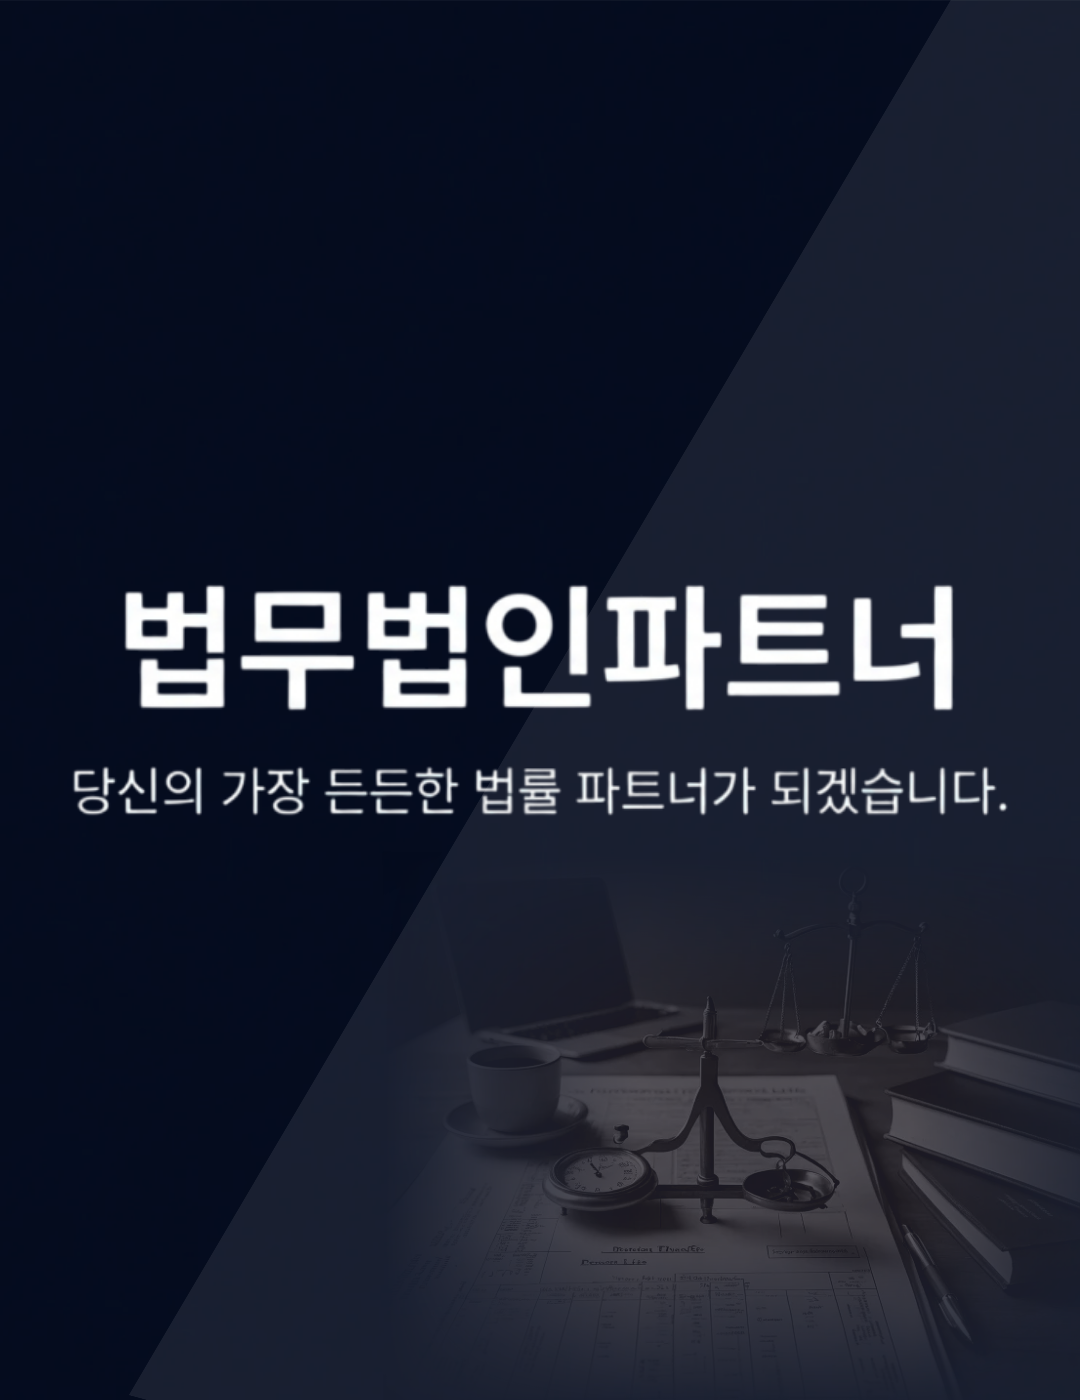
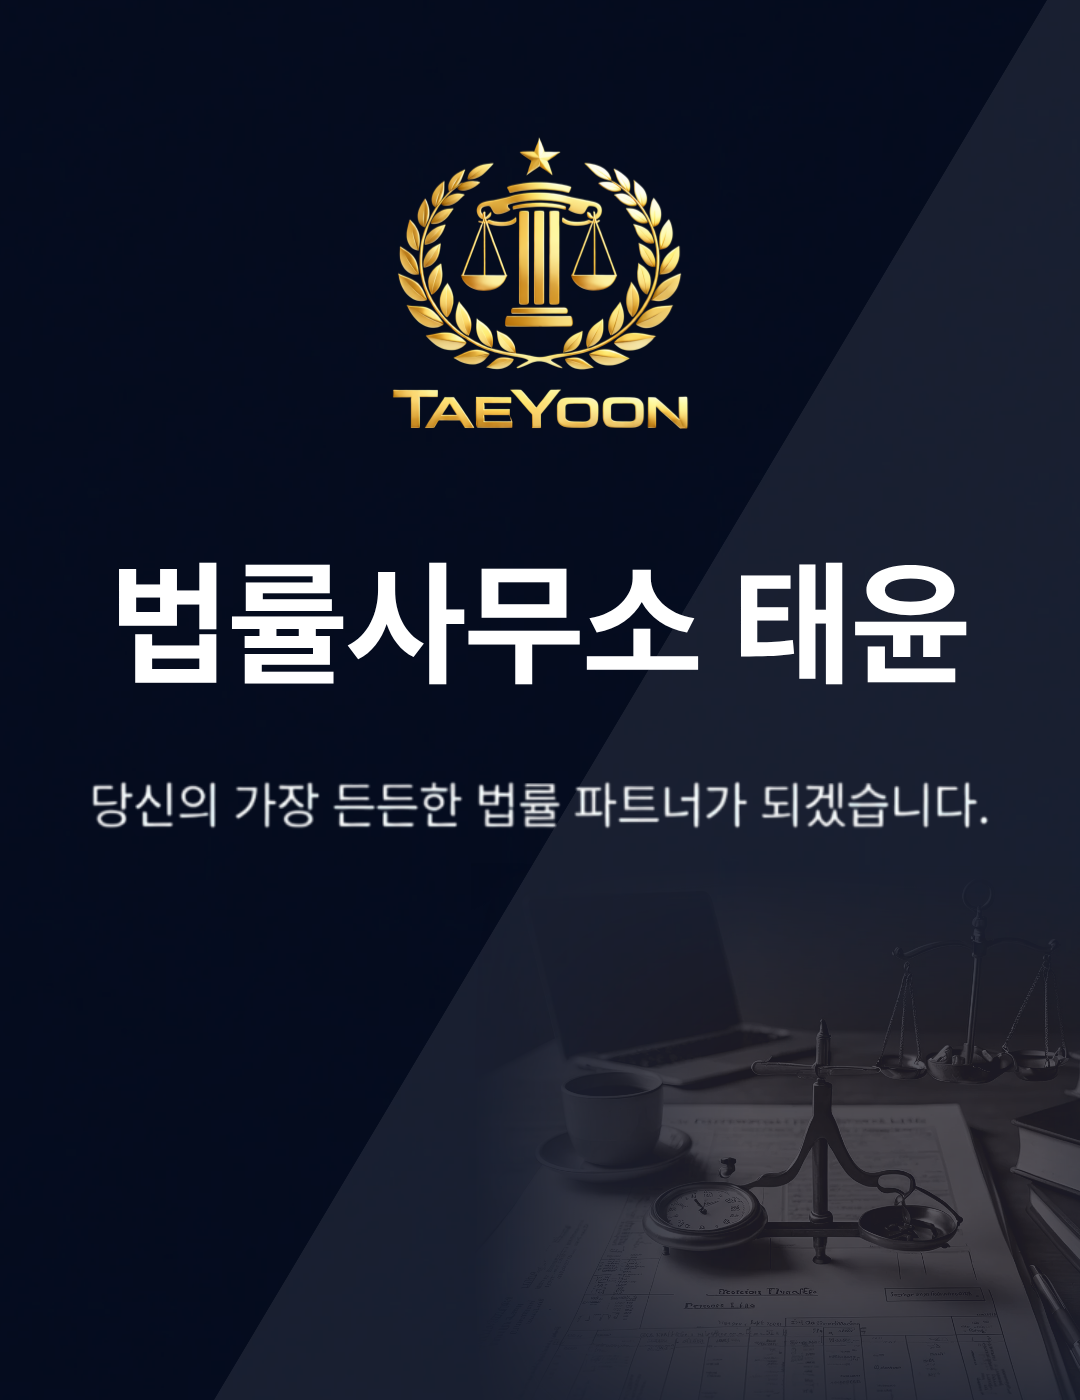
s

diff --git a/index.html b/index.html
@@ -5,11 +5,11 @@
     <meta name="viewport" content="width=device-width, initial-scale=1.0">
     
     <!-- Primary Meta Tags -->
-    <title>법무법인 파트너 | 채무조정, 개인회생, 신용회복 전문 법률상담</title>
-    <meta name="title" content="법무법인 파트너 | 채무조정, 개인회생, 신용회복 전문 법률상담">
-    <meta name="description" content="채무조정·개인회생·신용회복 전문 법무법인 파트너. 서울 서초구, 365일 24시간 상담 가능">
-    <meta name="keywords" content="법무법인파트너, 법무법인 파트너, 채무조정, 개인회생, 신용회복, 면책신청, 채무상담, 법률상담, 변호사, 서초구, 서울, 압류해제, 연체상담, 채권추심">
-    <meta name="author" content="법무법인 파트너">
+    <title>법무법인 태윤 | 채무조정, 개인회생, 신용회복 전문 법률상담</title>
+    <meta name="title" content="법무법인 태윤 | 채무조정, 개인회생, 신용회복 전문 법률상담">
+    <meta name="description" content="채무조정·개인회생·신용회복 전문 법무법인 태윤. 서울 서초구, 365일 24시간 상담 가능">
+    <meta name="keywords" content="법무법인태윤, 법무법인 태윤, 채무조정, 개인회생, 신용회복, 면책신청, 채무상담, 법률상담, 변호사, 서초구, 서울, 압류해제, 연체상담, 채권추심">
+    <meta name="author" content="법무법인 태윤">
     <meta name="robots" content="index, follow">
     <meta name="language" content="Korean">
     <meta name="revisit-after" content="7 days">
@@ -26,22 +26,22 @@
     <!-- Open Graph / Facebook -->
     <meta property="og:type" content="website">
     <meta property="og:url" content="https://lawmariel2.co.kr/">
-    <meta property="og:title" content="법무법인 파트너 | 채무조정, 개인회생, 신용회복 전문 법률상담">
-    <meta property="og:description" content="채무조정·개인회생·신용회복 전문 법무법인 파트너. 서울 서초구, 365일 24시간 상담 가능">
-    <meta property="og:image" content="https://lawmariel2.co.kr/partner-logo.png">
-    <meta property="og:site_name" content="법무법인 파트너">
+    <meta property="og:title" content="법무법인 태윤 | 채무조정, 개인회생, 신용회복 전문 법률상담">
+    <meta property="og:description" content="채무조정·개인회생·신용회복 전문 법무법인 태윤. 서울 서초구, 365일 24시간 상담 가능">
+    <meta property="og:image" content="https://lawmariel2.co.kr/logo.png">
+    <meta property="og:site_name" content="법무법인 태윤">
     <meta property="og:locale" content="ko_KR">
     
     <!-- Twitter -->
     <meta property="twitter:card" content="summary_large_image">
     <meta property="twitter:url" content="https://lawmariel2.co.kr/">
-    <meta property="twitter:title" content="법무법인 파트너 | 채무조정, 개인회생, 신용회복 전문 법률상담">
-    <meta property="twitter:description" content="채무조정·개인회생·신용회복 전문 법무법인 파트너. 서울 서초구, 365일 24시간 상담 가능">
-    <meta property="twitter:image" content="https://lawmariel2.co.kr/partner-logo.png">
+    <meta property="twitter:title" content="법무법인 태윤 | 채무조정, 개인회생, 신용회복 전문 법률상담">
+    <meta property="twitter:description" content="채무조정·개인회생·신용회복 전문 법무법인 태윤. 서울 서초구, 365일 24시간 상담 가능">
+    <meta property="twitter:image" content="https://lawmariel2.co.kr/logo.png">
     
     <!-- Favicon -->
-    <link rel="icon" type="image/png" href="partner-logo.png">
-    <link rel="apple-touch-icon" href="partner-logo.png">
+    <link rel="icon" type="image/png" href="logo.png">
+    <link rel="apple-touch-icon" href="logo.png">
     
     <!-- Preconnect for Performance -->
     <link rel="preconnect" href="https://cdn.jsdelivr.net">
@@ -55,11 +55,11 @@
     {
       "@context": "https://schema.org",
       "@type": "LegalService",
-      "name": "법무법인 파트너",
+      "name": "법무법인 태윤",
       "description": "채무조정, 개인회생, 신용회복, 면책신청 등 채무 관련 법률 서비스를 제공하는 법무법인",
       "url": "https://lawmariel2.co.kr/",
-      "logo": "https://lawmariel2.co.kr/partner-logo.png",
-      "image": "https://lawmariel2.co.kr/partner-logo.png",
+      "logo": "https://lawmariel2.co.kr/logo.png",
+      "image": "https://lawmariel2.co.kr/logo.png",
       "email": "bbong1019@naver.com",
       "address": {
         "@type": "PostalAddress",
@@ -117,8 +117,8 @@
     {
       "@context": "https://schema.org",
       "@type": "LocalBusiness",
-      "name": "법무법인 파트너",
-      "image": "https://lawmariel2.co.kr/partner-logo.png",
+      "name": "법무법인 태윤",
+      "image": "https://lawmariel2.co.kr/logo.png",
       "email": "bbong1019@naver.com",
       "address": {
         "@type": "PostalAddress",
@@ -1356,13 +1356,34 @@
             }
         }
     </style>
+
+    <!-- Danggeun Market Code -->
+    <script src="https://karrot-pixel.business.daangn.com/karrot-pixel.js"></script>
+    <script>
+    (function() {
+        function runViewPage() {
+            if (window.karrotPixel && window.karrotPixel.init) {
+                window.karrotPixel.init('1772604990583815001');
+                window.karrotPixel.track('ViewPage');
+            } else {
+                setTimeout(runViewPage, 50);
+            }
+        }
+        if (document.readyState === 'loading') {
+            document.addEventListener('DOMContentLoaded', runViewPage);
+        } else {
+            runViewPage();
+        }
+    })();
+    </script>
+    <!-- End Danggeun Market Code -->
 </head>
 <body>
     <!-- 헤더 -->
     <header>
         <div class="header-container">
-            <a href="#home" class="logo" aria-label="법무법인 파트너 홈으로 이동">
-                <img src="partner-logo.png" alt="법무법인 파트너 로고 - 채무조정, 개인회생, 신용회복 전문 법률서비스">
+            <a href="#home" class="logo" aria-label="법무법인 태윤 홈으로 이동">
+                <img src="logo.png" alt="법무법인 태윤 로고 - 채무조정, 개인회생, 신용회복 전문 법률서비스">
             </a>
             <button class="menu-btn" onclick="toggleSideMenu()">
                 MENU <span>☰</span>
@@ -1390,53 +1411,53 @@
             <a href="#contact" onclick="toggleSideMenu()" aria-label="문의하기로 이동">문의하기</a>
         </nav>
         <div class="side-menu-logo">
-            <img src="partner-logo.png" alt="법무법인 파트너 로고 - 채무조정 개인회생 신용회복 전문 법률서비스">
+            <img src="logo.png" alt="법무법인 태윤 로고 - 채무조정 개인회생 신용회복 전문 법률서비스">
         </div>
     </div>
 
     <!-- 메인 섹션들 -->
     <main class="hero-section" id="home">
-        <h1 style="position: absolute; width: 1px; height: 1px; margin: -1px; padding: 0; overflow: hidden; clip: rect(0, 0, 0, 0); border: 0;">법무법인파트너 - 채무조정, 개인회생, 신용회복 전문 법률서비스</h1>
-        <img src="images/pc/h-1.png" alt="법무법인 파트너 메인 배너 - 채무조정 개인회생 신용회복 전문 법률서비스" class="section-image pc">
-        <img src="images/mob/h-1-m.png" alt="법무법인 파트너 메인 배너 - 채무조정 개인회생 신용회복 전문 법률서비스" class="section-image mobile">
+        <h1 style="position: absolute; width: 1px; height: 1px; margin: -1px; padding: 0; overflow: hidden; clip: rect(0, 0, 0, 0); border: 0;">법무법인태윤 - 채무조정, 개인회생, 신용회복 전문 법률서비스</h1>
+        <img src="images/pc/h-1.png" alt="법무법인 태윤 메인 배너 - 채무조정 개인회생 신용회복 전문 법률서비스" class="section-image pc">
+        <img src="images/mob/h-1-m.png" alt="법무법인 태윤 메인 배너 - 채무조정 개인회생 신용회복 전문 법률서비스" class="section-image mobile">
         <section id="services"></section>
-        <img src="images/pc/h-2.png" alt="법무법인 파트너 서비스 소개 - 채무조정 개인회생 신용회복 법률상담" class="section-image pc">
-        <img src="images/mob/h-2-m.png" alt="법무법인 파트너 서비스 소개 - 채무조정 개인회생 신용회복 법률상담" class="section-image mobile">
-        <img src="images/pc/h-3.png" alt="법무법인 파트너 전문 변호사 상담 - 채무 문제 해결 법률서비스" class="section-image pc">
-        <img src="images/mob/h-3-m.png" alt="법무법인 파트너 전문 변호사 상담 - 채무 문제 해결 법률서비스" class="section-image mobile">
-        <img src="images/pc/h-4.png" alt="법무법인 파트너 상담 프로세스 - 365일 24시간 상담 가능" class="section-image pc">
-        <img src="images/mob/h-4-m.png" alt="법무법인 파트너 상담 프로세스 - 365일 24시간 상담 가능" class="section-image mobile">
-        <img src="images/pc/h-5.png" alt="법무법인 파트너 성공 사례 - 채무조정 개인회생 성공 후기" class="section-image pc">
-        <img src="images/mob/h-5-m.png" alt="법무법인 파트너 성공 사례 - 채무조정 개인회생 성공 후기" class="section-image mobile">
+        <img src="images/pc/h-2.png" alt="법무법인 태윤 서비스 소개 - 채무조정 개인회생 신용회복 법률상담" class="section-image pc">
+        <img src="images/mob/h-2-m.png" alt="법무법인 태윤 서비스 소개 - 채무조정 개인회생 신용회복 법률상담" class="section-image mobile">
+        <img src="images/pc/h-3.png" alt="법무법인 태윤 전문 변호사 상담 - 채무 문제 해결 법률서비스" class="section-image pc">
+        <img src="images/mob/h-3-m.png" alt="법무법인 태윤 전문 변호사 상담 - 채무 문제 해결 법률서비스" class="section-image mobile">
+        <img src="images/pc/h-4.png" alt="법무법인 태윤 상담 프로세스 - 365일 24시간 상담 가능" class="section-image pc">
+        <img src="images/mob/h-4-m.png" alt="법무법인 태윤 상담 프로세스 - 365일 24시간 상담 가능" class="section-image mobile">
+        <img src="images/pc/h-5.png" alt="법무법인 태윤 성공 사례 - 채무조정 개인회생 성공 후기" class="section-image pc">
+        <img src="images/mob/h-5-m.png" alt="법무법인 태윤 성공 사례 - 채무조정 개인회생 성공 후기" class="section-image mobile">
         <!-- 탕감률 섹션 슬라이더 -->
         <div class="discount-slider-section">
             <!-- 데스크탑 슬라이더 -->
             <div class="discount-slider-container">
                 <div class="discount-slider-track">
                     <div class="discount-slide">
-                        <img src="images/pc/h-6.png" alt="채무조정 탕감률 성공 사례 - 법무법인 파트너" class="discount-image pc">
-                        <img src="images/mob/h-6-m.png" alt="채무조정 탕감률 성공 사례 - 법무법인 파트너" class="discount-image mobile">
+                        <img src="images/pc/h-6.png" alt="채무조정 탕감률 성공 사례 - 법무법인 태윤" class="discount-image pc">
+                        <img src="images/mob/h-6-m.png" alt="채무조정 탕감률 성공 사례 - 법무법인 태윤" class="discount-image mobile">
                     </div>
                     <div class="discount-slide">
-                        <img src="images/pc/h-7.png" alt="개인회생 탕감률 성공 사례 - 법무법인 파트너" class="discount-image pc">
-                        <img src="images/mob/h-7-m.png" alt="개인회생 탕감률 성공 사례 - 법무법인 파트너" class="discount-image mobile">
+                        <img src="images/pc/h-7.png" alt="개인회생 탕감률 성공 사례 - 법무법인 태윤" class="discount-image pc">
+                        <img src="images/mob/h-7-m.png" alt="개인회생 탕감률 성공 사례 - 법무법인 태윤" class="discount-image mobile">
                     </div>
                     <div class="discount-slide">
-                        <img src="images/pc/h-8.png" alt="신용회복 탕감률 성공 사례 - 법무법인 파트너" class="discount-image pc">
-                        <img src="images/mob/h-8-m.png" alt="신용회복 탕감률 성공 사례 - 법무법인 파트너" class="discount-image mobile">
+                        <img src="images/pc/h-8.png" alt="신용회복 탕감률 성공 사례 - 법무법인 태윤" class="discount-image pc">
+                        <img src="images/mob/h-8-m.png" alt="신용회복 탕감률 성공 사례 - 법무법인 태윤" class="discount-image mobile">
                     </div>
                     <!-- 무한 반복을 위한 복제본 -->
                     <div class="discount-slide">
-                        <img src="images/pc/h-6.png" alt="채무조정 탕감률 성공 사례 - 법무법인 파트너" class="discount-image pc">
-                        <img src="images/mob/h-6-m.png" alt="채무조정 탕감률 성공 사례 - 법무법인 파트너" class="discount-image mobile">
+                        <img src="images/pc/h-6.png" alt="채무조정 탕감률 성공 사례 - 법무법인 태윤" class="discount-image pc">
+                        <img src="images/mob/h-6-m.png" alt="채무조정 탕감률 성공 사례 - 법무법인 태윤" class="discount-image mobile">
                     </div>
                     <div class="discount-slide">
-                        <img src="images/pc/h-7.png" alt="개인회생 탕감률 성공 사례 - 법무법인 파트너" class="discount-image pc">
-                        <img src="images/mob/h-7-m.png" alt="개인회생 탕감률 성공 사례 - 법무법인 파트너" class="discount-image mobile">
+                        <img src="images/pc/h-7.png" alt="개인회생 탕감률 성공 사례 - 법무법인 태윤" class="discount-image pc">
+                        <img src="images/mob/h-7-m.png" alt="개인회생 탕감률 성공 사례 - 법무법인 태윤" class="discount-image mobile">
                     </div>
                     <div class="discount-slide">
-                        <img src="images/pc/h-8.png" alt="신용회복 탕감률 성공 사례 - 법무법인 파트너" class="discount-image pc">
-                        <img src="images/mob/h-8-m.png" alt="신용회복 탕감률 성공 사례 - 법무법인 파트너" class="discount-image mobile">
+                        <img src="images/pc/h-8.png" alt="신용회복 탕감률 성공 사례 - 법무법인 태윤" class="discount-image pc">
+                        <img src="images/mob/h-8-m.png" alt="신용회복 탕감률 성공 사례 - 법무법인 태윤" class="discount-image mobile">
                     </div>
                 </div>
             </div>
@@ -1445,25 +1466,25 @@
                 <div class="discount-card-container">
                     <div class="discount-card-wrapper" id="discountCardWrapper">
                         <div class="discount-card">
-                            <img src="images/mob/h-6-m.png" alt="채무조정 탕감률 성공 사례 - 법무법인 파트너" class="discount-card-image">
+                            <img src="images/mob/h-6-m.png" alt="채무조정 탕감률 성공 사례 - 법무법인 태윤" class="discount-card-image">
                         </div>
                         <div class="discount-card">
-                            <img src="images/mob/h-7-m.png" alt="개인회생 탕감률 성공 사례 - 법무법인 파트너" class="discount-card-image">
+                            <img src="images/mob/h-7-m.png" alt="개인회생 탕감률 성공 사례 - 법무법인 태윤" class="discount-card-image">
                         </div>
                         <div class="discount-card">
-                            <img src="images/mob/h-8-m.png" alt="신용회복 탕감률 성공 사례 - 법무법인 파트너" class="discount-card-image">
+                            <img src="images/mob/h-8-m.png" alt="신용회복 탕감률 성공 사례 - 법무법인 태윤" class="discount-card-image">
                         </div>
                     </div>
                 </div>
             </div>
         </div>
-        <img src="images/pc/h-9.png" alt="법무법인 파트너 법률서비스 안내 - 면책신청 압류해제 연체상담" class="section-image pc">
-        <img src="images/mob/h-9-m.png" alt="법무법인 파트너 법률서비스 안내 - 면책신청 압류해제 연체상담" class="section-image mobile">
-        <img src="images/pc/h-10.png" alt="법무법인 파트너 상담 신청 방법 - 온라인 상담 24시간 접수" class="section-image pc">
-        <img src="images/mob/h-10-m.png" alt="법무법인 파트너 상담 신청 방법 - 온라인 상담 24시간 접수" class="section-image mobile">
+        <img src="images/pc/h-9.png" alt="법무법인 태윤 법률서비스 안내 - 면책신청 압류해제 연체상담" class="section-image pc">
+        <img src="images/mob/h-9-m.png" alt="법무법인 태윤 법률서비스 안내 - 면책신청 압류해제 연체상담" class="section-image mobile">
+        <img src="images/pc/h-10.png" alt="법무법인 태윤 상담 신청 방법 - 온라인 상담 24시간 접수" class="section-image pc">
+        <img src="images/mob/h-10-m.png" alt="법무법인 태윤 상담 신청 방법 - 온라인 상담 24시간 접수" class="section-image mobile">
         <section id="reviews"></section>
-        <img src="images/pc/h-11.png" alt="법무법인 파트너 고객 후기 - 채무조정 개인회생 신용회복 성공 후기" class="section-image pc">
-        <img src="images/mob/h-11-m.png" alt="법무법인 파트너 고객 후기 - 채무조정 개인회생 신용회복 성공 후기" class="section-image mobile">
+        <img src="images/pc/h-11.png" alt="법무법인 태윤 고객 후기 - 채무조정 개인회생 신용회복 성공 후기" class="section-image pc">
+        <img src="images/mob/h-11-m.png" alt="법무법인 태윤 고객 후기 - 채무조정 개인회생 신용회복 성공 후기" class="section-image mobile">
     </main>
 
     <!-- 실시간 상담신청 영역 -->
@@ -1546,7 +1567,7 @@
             <div class="footer-content">
                 <div class="footer-section">
                     <div class="footer-logo">
-                        <img src="partner-logo.png" alt="법무법인 파트너 로고 - 채무조정 개인회생 신용회복 전문 법률서비스">
+                        <img src="logo.png" alt="법무법인 태윤 로고 - 채무조정 개인회생 신용회복 전문 법률서비스">
                     </div>
                     <p>고객의 권익을 최우선으로 생각하는<br>신뢰받는 법률 서비스를 제공합니다.</p>
                 </div>
@@ -1564,7 +1585,7 @@
                 </div>
             </div>
             <div class="footer-bottom">
-                <p>&copy; 2024 법무법인 파트너. All rights reserved.</p>
+                <p>&copy; 2024 법무법인 태윤. All rights reserved.</p>
             </div>
         </div>
     </footer>
@@ -1574,7 +1595,7 @@
         <div class="sticky-bar-container">
             <div class="sticky-bar-wrapper">
                 <div class="sticky-bar-icon">
-                    <img src="partner-logo.png" alt="법무법인 파트너 로고 - 채무조정 개인회생 신용회복 전문 법률서비스">
+                    <img src="logo.png" alt="법무법인 태윤 로고 - 채무조정 개인회생 신용회복 전문 법률서비스">
                 </div>
                 <div class="sticky-bar-form">
                     <div class="sticky-bar-title">
@@ -1651,7 +1672,7 @@
                     </div>
                     <div class="sticky-bar-kakao">
                         <a href="http://pf.kakao.com/_inbpn/chat" target="_blank" class="sticky-bar-kakao-btn">
-                            <span style="display: block; text-indent: 8px; font-weight: bold;">법무법인파트너</span>
+                            <span style="display: block; text-indent: 8px; font-weight: bold;">법무법인태윤</span>
                             <span style="font-weight: bold;">카톡상담 바로가기 →</span>
                         </a>
                     </div>
@@ -1898,8 +1919,19 @@
             });
         }
         
+        // 당근마켓 픽셀 전환 추적 (동일 value 세션당 1회만 전송 - 중복 전환 방지)
+        function trackKarrotPurchase(value) {
+            var key = 'karrot_sent_' + value;
+            if (sessionStorage.getItem(key)) return;
+            if (window.karrotPixel && window.karrotPixel.track) {
+                window.karrotPixel.track('purchase', { value: value, currency: 'KRW' });
+                sessionStorage.setItem(key, '1');
+            }
+        }
+        
         // 성공 모달 표시
         function showSuccessModal() {
+            trackKarrotPurchase(10000); // 상담문의 신청서 제출 완료 전환
             const modal = document.getElementById('successModal');
             modal.classList.add('show');
             document.body.style.overflow = 'hidden'; // 스크롤 방지
@@ -1919,6 +1951,19 @@
                 if (e.target === modal) {
                     closeSuccessModal();
                 }
+            });
+            
+            // 당근마켓 픽셀: 전화 상담 버튼 클릭 (value 1, 세션당 1회)
+            document.querySelectorAll('a[href^="tel:"]').forEach(function(el) {
+                el.addEventListener('click', function() {
+                    trackKarrotPurchase(1);
+                });
+            });
+            // 당근마켓 픽셀: 카카오톡 상담 버튼 클릭 (value 100, 세션당 1회)
+            document.querySelectorAll('a[href*="pf.kakao.com"]').forEach(function(el) {
+                el.addEventListener('click', function() {
+                    trackKarrotPurchase(100);
+                });
             });
         });
 

diff --git a/apps-script.js b/apps-script.js
@@ -96,7 +96,7 @@ function doPost(e) {
 function sendEmailNotification(rowData) {
   try {
     var email = "bbong1019@gmail.com";
-    var subject = "[법무법인 파트너] 새 문의가 접수되었습니다 [싸이렌24]";
+    var subject = "[법무법인 태윤] 새 문의가 접수되었습니다 [싸이렌24]";
     
     var headers = ["제출일시", "이름", "전화번호", "직업", "월소득", "채무금액", "상담가능시간", "연체여부"];
     
@@ -158,7 +158,7 @@ function onFormSubmit(e) {
     var rowData = sheet.getRange(lastRow, 1, 1, sheet.getLastColumn()).getValues()[0];
     
     // 이메일 제목
-    var subject = "[법무법인 파트너] 새 문의가 접수되었습니다";
+    var subject = "[법무법인 태윤] 새 문의가 접수되었습니다";
     
     // 이메일 본문 작성
     var bodyLines = [];
